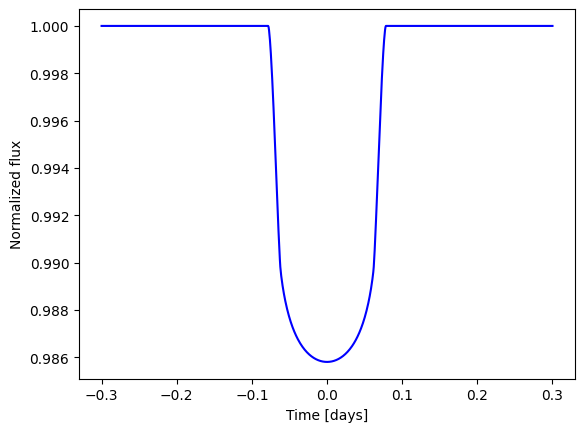
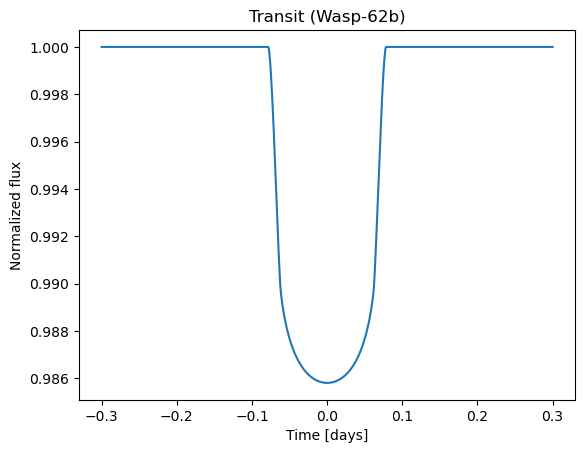
modified assignment2 task A

diff --git a/src/daneel/detection/Assignment2/transitA.py b/src/daneel/detection/Assignment2/transitA.py
@@ -1,0 +1,31 @@
+import batman
+import numpy as np
+import matplotlib.pyplot as plt
+
+c1, c2 = np.genfromtxt('ExoCTK_results.txt', skip_header=2, usecols=(8,10), unpack=True)
+mean_c1 = np.mean(c1)
+mean_c2 = np.mean(c2)
+
+params = batman.TransitParams()       #object to store transit parameters
+params.t0 = 0.                        #time of inferior conjunction
+params.per = 4.4                       #orbital period
+params.rp = 0.11                      #planet radius (in units of stellar radii)
+params.a = 9.73                        #semi-major axis (in units of stellar radii)
+params.inc = 88.6                      #orbital inclination (in degrees)
+params.ecc = 0.                       #eccentricity
+params.w = 90.                        #longitude of periastron (in degrees)
+params.limb_dark = "quadratic"        #limb darkening model
+params.u = [mean_c1,mean_c2]      #limb darkening coefficients [u1, u2, u3, u4]
+
+t = np.linspace(-0.3, 0.3, 1000)  #times at which to calculate light curve
+m = batman.TransitModel(params, t)    #initializes model
+
+l = ['Planet', 'Planet (1/2 mass)']
+flux = m.light_curve(params)
+
+plt.plot(t, flux)
+plt.xlabel('Time [days]')
+plt.ylabel('Normalized flux')
+plt.legend(l)
+
+plt.title('Transit (Wasp-62b)')
